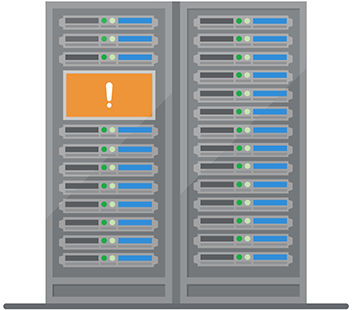
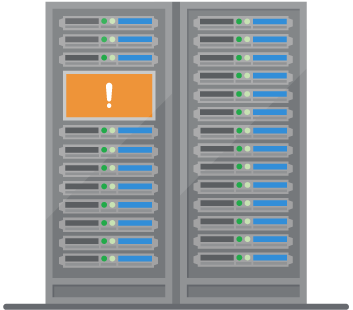
hotfix: fix error image transparency

diff --git a/cfgov/unprocessed/css/pages/error.less b/cfgov/unprocessed/css/pages/error.less
@@ -72,12 +72,12 @@
 
     &__404 {
         .content_main {
-            background: transparent url( '../img/plug-269x328.png' ) no-repeat top right;
+            background: transparent url( '../img/plug-269x327.png' ) no-repeat top right;
             background-size: 36%;
             padding-top: unit( @grid_gutter-width / @base-font-size-px, em );
 
             .respond-to-dpi( 2, {
-                background-image: url( '/static/img/plug-538x656.png' );
+                background-image: url( '/static/img/plug-538x655.png' );
             } );
 
             .respond-to-max( @bp-xs-max, {
@@ -108,7 +108,7 @@
             background-size: contain;
 
             .respond-to-dpi( 2, {
-                background-image: url( '/static/img/server-706x620.png' );
+                background-image: url( '/static/img/server-706x619.png' );
             } );
 
             .respond-to-min(@bp-sm-min, {
